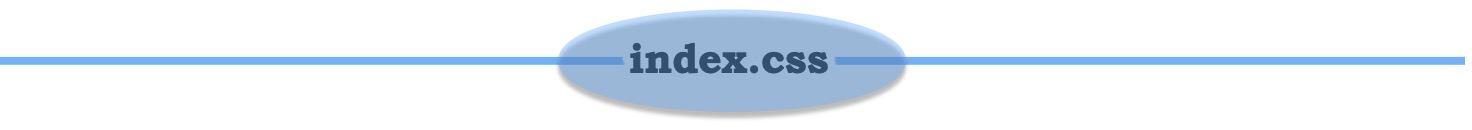
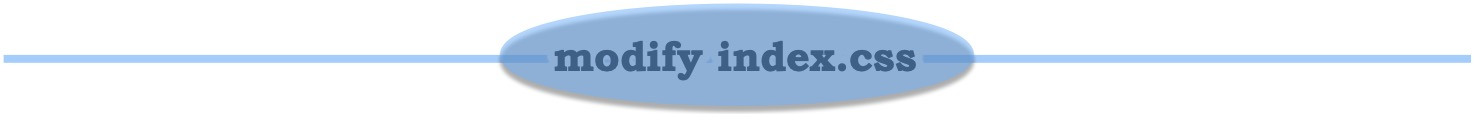
Changed html/css to images

Changed region(s): [[0.0, 0.0263, 1.0, 1.0]]

diff --git a/FRApps/fr020100_My-HTML-Custom.md b/FRApps/fr020100_My-HTML-Custom.md
@@ -144,11 +144,6 @@ Both should be empty.
 
 #### b. HTML Basic Code
 
-<!--
-> <span style="font-size: 25px"><b>REMINDER</b></span><br>
-Mouse over the "HTML" in the upper right corner of the code block to quickly copy all the code.<br>
-<img width="15%" src="FRApps/assets/images/md-images/BasicHTMLCopyImage.jpg">
--->
 
 - Click on and open the index.<b>html</b> file from VSCode. Copy and paste the entire below code to Line 1 of the empty index.<b>html</b> file:
 
@@ -490,7 +485,7 @@ The .Header properites<br>
 <br><br>
 <img style=border:none; class="shadow-border" src="FRApps/assets/images/md-images/index.css.jpg">
 
-<span style=font-size:25px><b><u>index.css</u></b></span>
+
 
 #### a. .Header
 
@@ -722,7 +717,7 @@ ___
 
 <img style=border:none; class="shadow-border" src="FRApps/assets/images/md-images/index.html.jpg">
 
-<span style=font-size:25px><b><u>index.html</u></b></span>
+
 #### a. Header class
 
 
@@ -786,7 +781,7 @@ ___
 <img style=border:none; class="shadow-border" src="FRApps/assets/images/md-images/index.css.jpg">
 
 
-<span style=font-size:25px><b><u>index.css</u></b></span>
+
 
 ___
 
@@ -1109,7 +1104,7 @@ ___
 
 <img style=border:none; class="shadow-border" src="FRApps/assets/images/md-images/index.html.jpg">
 
-<span style=font-size:25px><b><u>index.html</u></b></span>
+
 #### a. <font color='green'>Footer</font> class
 <br>
 Copy <font color='green'>Footer</font> code below... 
@@ -1149,7 +1144,7 @@ ___
 
 <img style=border:none; class="shadow-border" src="FRApps/assets/images/md-images/index.css.jpg">
 
-<span style=font-size:25px><b><u>index.css</u></b></span>
+
 ___
 
 
@@ -1260,7 +1255,7 @@ First, the index.<b>html</b> file.
 
 <img style=border:none; class="shadow-border" src="FRApps/assets/images/md-images/index.html.jpg">
 
-<span style=font-size:25px><b><u>index.html</u></b></span>
+
 #### a. <font color='green'>Section1</font> class
 <br>
 Copy <font color='green'>Section1</font> code below... 
@@ -1298,7 +1293,7 @@ ___
 
 <img style=border:none; class="shadow-border" src="FRApps/assets/images/md-images/index.css.jpg">
 
-<span style=font-size:25px><b><u>index.css</u></b></span>
+
 
 #### b. .Section1ImageText
 
@@ -1373,7 +1368,7 @@ We will add some text.
 
 <img style=border:none; class="shadow-border" src="FRApps/assets/images/md-images/index.html.jpg">
 
-<span style=font-size:25px><b><u>index.html</u></b></span>
+
 
 Copy <font color='green'>Section2</font> code below ... 
 
@@ -1423,7 +1418,7 @@ We will add some code to make it "wiggle."
 
 <img style=border:none; class="shadow-border" src="FRApps/assets/images/md-images/index.css.jpg">
 
-<span style=font-size:25px><b><u>index.css</u></b></span>
+
 
 #### a. .HeaderNavListCTA & @keyframes wiggle
 
@@ -1560,7 +1555,7 @@ Let's focus on the Header and how we want it to appear on a smart phone.
 
 <img style=border:none; class="shadow-border" src="FRApps/assets/images/md-images/index.html.jpg">
 
-<span style=font-size:25px><b><u>index.html</u></b></span>
+
 
 #### b. HeaderNavBars Class
 <br>
@@ -1623,7 +1618,7 @@ Now let's move on to index.**css** to adjust the NavBars in a proper postion
 
 <img style=border:none; class="shadow-border" src="FRApps/assets/images/md-images/index.css.jpg">
 
-<span style=font-size:25px><b><u>index.css</u></b></span>
+
 #### c. .HeaderNavBars
 
 - We will be INSERTING 2 new classes in one copy/paste block of code:
@@ -1696,7 +1691,7 @@ ___
 <br>
 <img style=border:none; class="shadow-border" src="FRApps/assets/images/md-images/index.css.jpg">
 
-<span style=font-size:25px><b><u>index.css</u></b></span>
+
 
 #### e. @media (max-width)
 
@@ -1830,7 +1825,7 @@ ___
 
 <img style=border:none; class="shadow-border" src="FRApps/assets/images/md-images/index.css.jpg">
 
-<span style=font-size:25px><b><u>index.css</u></b></span>
+
 
 #### a. .Section1
 <br>
@@ -1916,7 +1911,7 @@ Now lets add an image in place of the "PH Logo" in the Header. In the "assets/im
 
 <img style=border:none; class="shadow-border" src="FRApps/assets/images/md-images/index.html.jpg">
 
-<span style=font-size:25px><b><u>index.html</u></b></span>
+
 #### a. Header
 <br>
 
@@ -1968,7 +1963,7 @@ ___
 
 <img style=border:none; class="shadow-border" src="FRApps/assets/images/md-images/index.css.jpg">
 
-<span style=font-size:25px><b><u>index.css</u></b></span>
+
 <br>
 
 #### b. &#58;root
@@ -2147,7 +2142,7 @@ ____
 
 <img style=border:none; class="shadow-border" src="FRApps/assets/images/md-images/index.html.jpg">
 
-<span style=font-size:25px><b><u>index.html</u></b></span>
+
 
 - Open your index.html file and follow along as we are just going to edit some text in the page, starting with the Header class.
 
@@ -2222,7 +2217,7 @@ FINALLY, we will CUSTOMIZE with some color changes.
 
 <img style=border:none; class="shadow-border" src="FRApps/assets/images/md-images/index.css.jpg">
 
-<span style=font-size:25px><b><u>index.css</u></b></span>
+
 
 #### a. &#58;root
 
